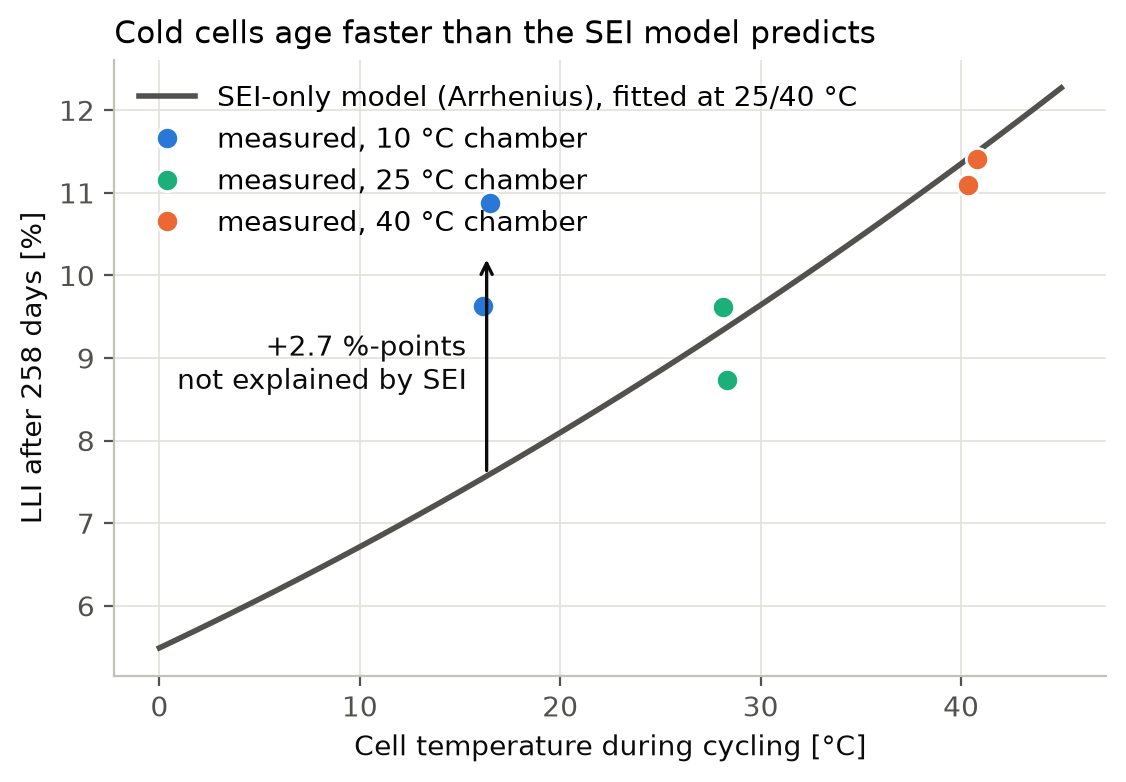
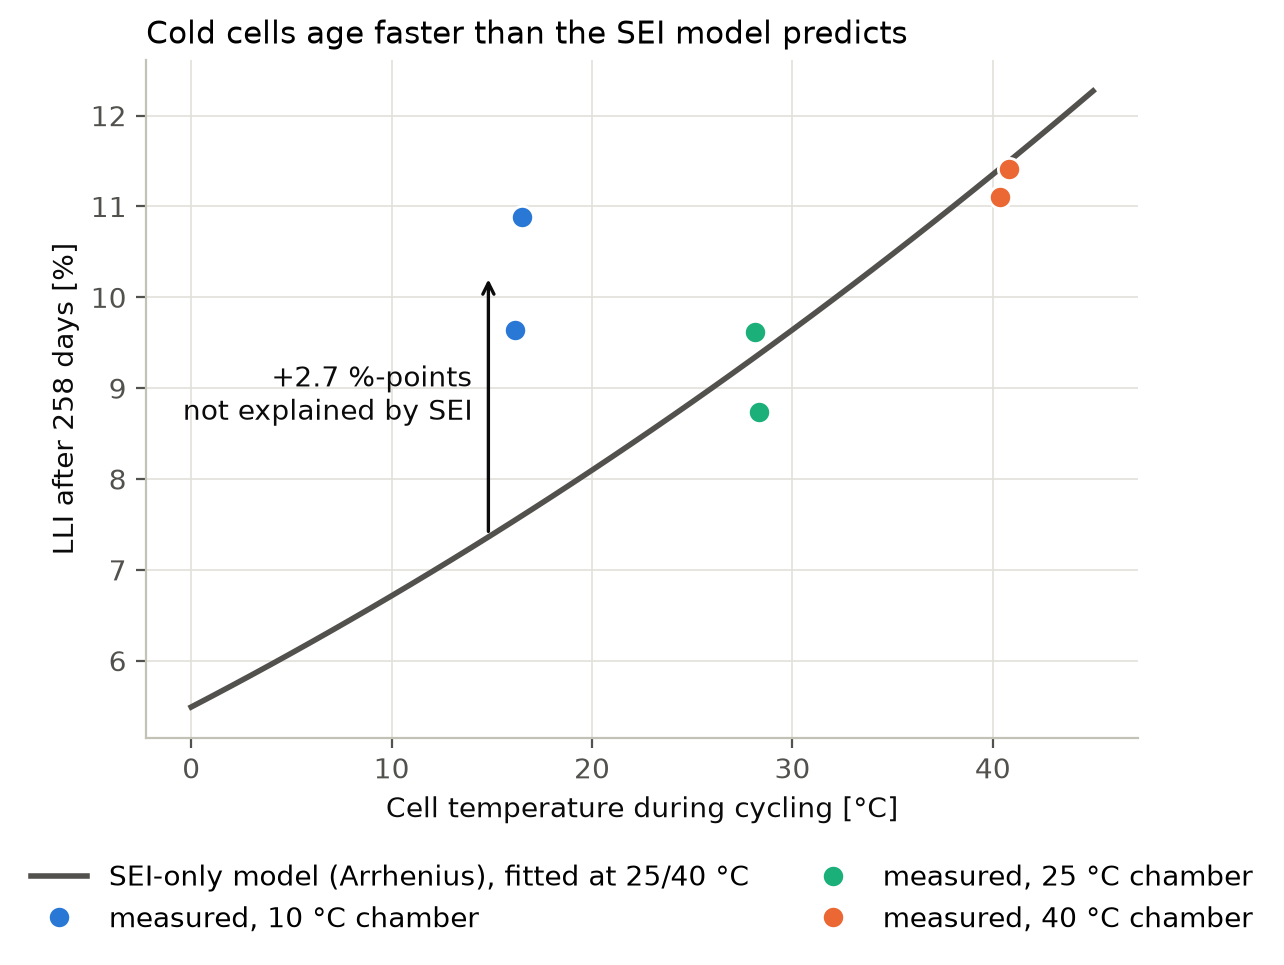
Tidy figure 2, fix equation rendering, simplify README
- Figure 2: legend below the plot, gap arrow beside the cold-cell points
- SEI equation as a math block so GitHub keeps the LaTeX intact
- Reproduce section with plain pip commands; neutral code comments

diff --git a/fit_sei.py b/fit_sei.py
@@ -24,8 +24,8 @@ COLORS = {10: "#2a78d6", 25: "#1baf7a", 40: "#eb6834"}  # chamber temperature ->
 # SEI growth limited by solvent diffusion through the SEI: rate = D * c_solvent / thickness, times an Arrhenius
 # factor exp(E/R * (1/298.15 K - 1/T)). The rate does not depend on the current, so ageing by cycling equals
 # storage for the same time at the same temperature; self_check() verifies this.
-# ponytail: exact only for this current-independent SEI model; potential-dependent SEI models need the
-# real cycling protocol simulated.
+# This shortcut holds only for current-independent SEI models; potential-dependent ones need the real cycling
+# protocol simulated.
 model = pybamm.lithium_ion.SPM({"SEI": "solvent-diffusion limited"})
 params = pybamm.ParameterValues("OKane2022")  # LG M50 cell, O'Kane et al. 2022
 params.update({"Current function [A]": 0, D_KEY: "[input]", E_KEY: "[input]", T_KEY: "[input]"})
@@ -105,8 +105,8 @@ def plot_fit(x, cells):
     fig.savefig(HERE / "results" / "lli_fit.png")
 
 
-def plot_temperature(x, cells, T_grid, lli_grid):
-    fig, ax = plt.subplots(figsize=(6.4, 4))
+def plot_temperature(cells, T_grid, lli_grid):
+    fig, ax = plt.subplots(figsize=(6.4, 4.4))
     ax.plot(T_grid, lli_grid, color="#52514e", label="SEI-only model (Arrhenius), fitted at 25/40 °C")
     for chamber in (10, 25, 40):
         group = [c for c in cells if c["chamber"] == chamber]
@@ -115,13 +115,14 @@ def plot_temperature(x, cells, T_grid, lli_grid):
     cold = [c for c in cells if c["chamber"] == 10]
     T_cold = np.mean([c["T"] for c in cold])
     measured, predicted = np.mean([c["lli"][-1] for c in cold]), np.interp(T_cold, T_grid, lli_grid)
-    ax.annotate("", xy=(T_cold, measured), xytext=(T_cold, predicted),
+    x_arrow = T_cold - 1.5  # beside the two cold cells rather than on top of them
+    ax.annotate("", xy=(x_arrow, measured), xytext=(x_arrow, np.interp(x_arrow, T_grid, lli_grid)),
                 arrowprops={"arrowstyle": "->", "color": "#0b0b0b", "lw": 1.2})
-    ax.text(T_cold - 1, (measured + predicted) / 2, f"+{measured - predicted:.1f} %-points\nnot explained by SEI",
+    ax.text(x_arrow - 0.8, (measured + predicted) / 2, f"+{measured - predicted:.1f} %-points\nnot explained by SEI",
             ha="right", va="center", color="#0b0b0b")
     ax.set(xlabel="Cell temperature during cycling [°C]", ylabel="LLI after 258 days [%]")
     ax.set_title("Cold cells age faster than the SEI model predicts")
-    ax.legend(loc="upper left")
+    ax.legend(loc="upper center", bbox_to_anchor=(0.5, -0.15), ncol=2)
     fig.savefig(HERE / "results" / "lli_vs_temperature.png")
 
 
@@ -153,7 +154,7 @@ if __name__ == "__main__":
     print(f"10 degC cells: {gap:.1f} %-points more LLI than the SEI model predicts")
 
     plot_fit(x, cells)
-    plot_temperature(x, cells, T_grid, lli_grid)
+    plot_temperature(cells, T_grid, lli_grid)
     chamber_T = {ch: np.mean([c["T"] for c in cells if c["chamber"] == ch]) for ch in (10, 25, 40)}
     json.dump({"log10_D": x[0], "Ea_kJ_mol": x[1], "chamber_T": chamber_T, "cold_gap_pct": gap,
                "cycles": test[0]["cycles"]},

diff --git a/plating_map.py b/plating_map.py
@@ -36,8 +36,8 @@ def plating_check(T_celsius, cycles=20):
     experiment = pybamm.Experiment([("Charge at 0.3C for 30 minutes", "Discharge at 1C for 9 minutes")] * cycles)
     sol = pybamm.Simulation(model, parameter_values=params, experiment=experiment).solve(initial_soc=0.70)
     plated = [c["Loss of lithium to negative lithium plating [mol]"].entries[-1] for c in sol.cycles]
-    # ponytail: extrapolates the settled per-cycle loss (second half of the run) to all cycles of the test;
-    # simulate every cycle if plating turns out to matter
+    # Assumes the settled per-cycle loss (second half of the run) stays constant over all cycles of the test;
+    # simulating every cycle would be needed if plating turned out to matter.
     half = cycles // 2
     per_cycle = (plated[-1] - plated[half - 1]) / (cycles - half)
     lost = 100 * per_cycle * fit["cycles"] / sol["Total lithium in particles [mol]"].entries[0]

diff --git a/README.md b/README.md
@@ -83,11 +83,13 @@ Each cell of the map gives the SoC at which a constant-current charge from 10 % 
 - **SEI growth law.**
   - The SEI current density is
 
-    $$j_\mathrm{SEI} = -\frac{D_\mathrm{sol}\,c_\mathrm{sol}\,F}{L_\mathrm{SEI}}\,\exp\left[\frac{E_a}{R}\left(\frac{1}{T_\mathrm{ref}}-\frac{1}{T}\right)\right]$$
+    ```math
+    j_\mathrm{SEI} = -\frac{D_\mathrm{sol}\,c_\mathrm{sol}\,F}{L_\mathrm{SEI}}\,\exp\left[\frac{E_a}{R}\left(\frac{1}{T_\mathrm{ref}}-\frac{1}{T}\right)\right]
+    ```
 
   - Because the rate is inversely proportional to the film thickness $L_\mathrm{SEI}$, the film grows (and consumes lithium) as $\sqrt{t}$.
 - **Cycling as storage.**
-  - $j_\mathrm{SEI}$ does not depend on the current, so 6,204 cycles age this model exactly like 258 days of storage at the same temperature. Each fit evaluation therefore takes a fraction of a second instead of simulating every cycle.
+  - $j_\mathrm{SEI}$ does not depend on the current, so 6,204 cycles age this model exactly like 258 days of storage at the same temperature. The fit therefore simulates storage instead of every cycle.
   - [`fit_sei.py`](fit_sei.py) asserts this against 20 simulated cycles; both give 0.3512 % LLI.
 - **Parameter identification.**
   - `scipy.optimize.least_squares` on log₁₀ $D_\mathrm{sol}$ and $E_a$, against 48 LLI check-ups from the 25 and 40 °C chambers.
@@ -120,15 +122,17 @@ Each cell of the map gives the SoC at which a constant-current charge from 10 % 
 - **Add the other SoC windows** (0–30 %, 85–100 %). This needs a potential-dependent SEI model and a simulation of the actual cycling.
 - **Resolve the anode.** Model graphite and silicon as separate phases with PyBaMM's composite-electrode option.
 
-## Run it
+## Reproduce the results
+
+Requires Python 3.10–3.14.
 
 ```bash
-uv venv && uv pip install -r requirements.txt   # or: python -m venv .venv && .venv/bin/pip install -r requirements.txt
-.venv/bin/python fit_sei.py       # ~5 s: fit, validation, figures 1-2
-.venv/bin/python plating_map.py   # ~10 s: plating check, fast-charge map
+pip install -r requirements.txt
+python fit_sei.py       # SEI fit and validation, figures 1 and 2
+python plating_map.py   # plating check and fast-charging map, figure 3
 ```
 
-The six data files are included in [`data/`](data). [`get_data.py`](get_data.py) downloads them again from Zenodo using HTTP range requests, so the 6.5 GB archive is never downloaded in full.
+The data files are included in [`data/`](data); [`get_data.py`](get_data.py) downloads them again from Zenodo.
 
 ## Data and references
 
